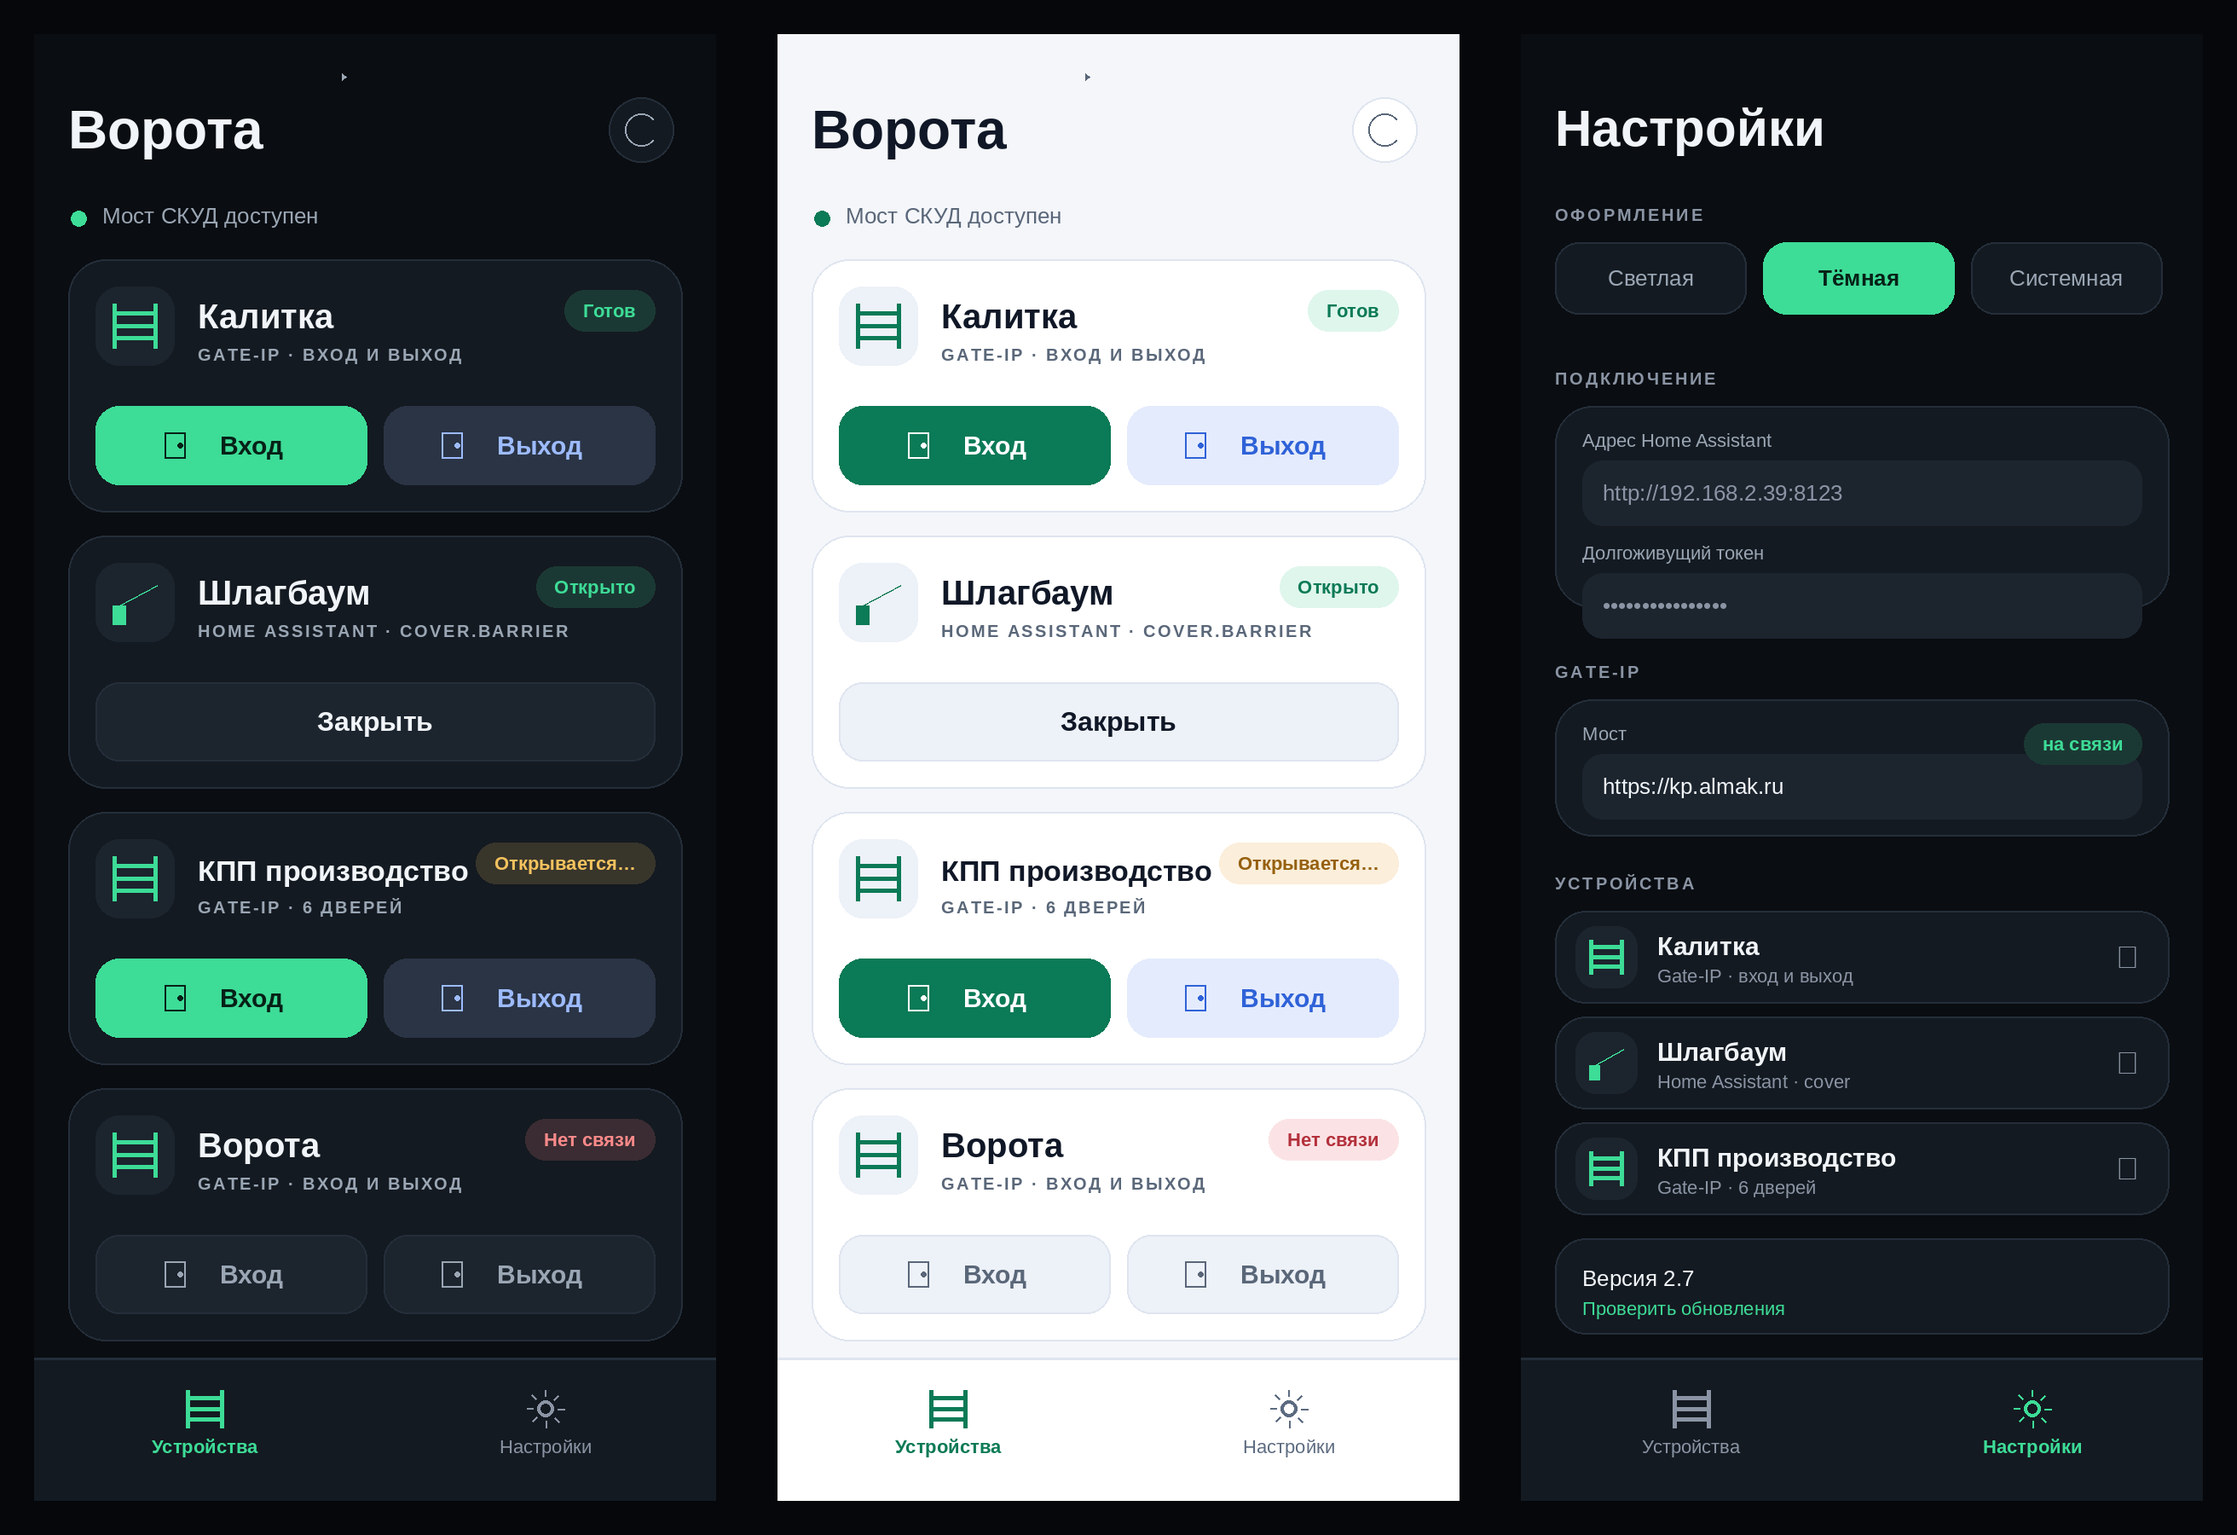
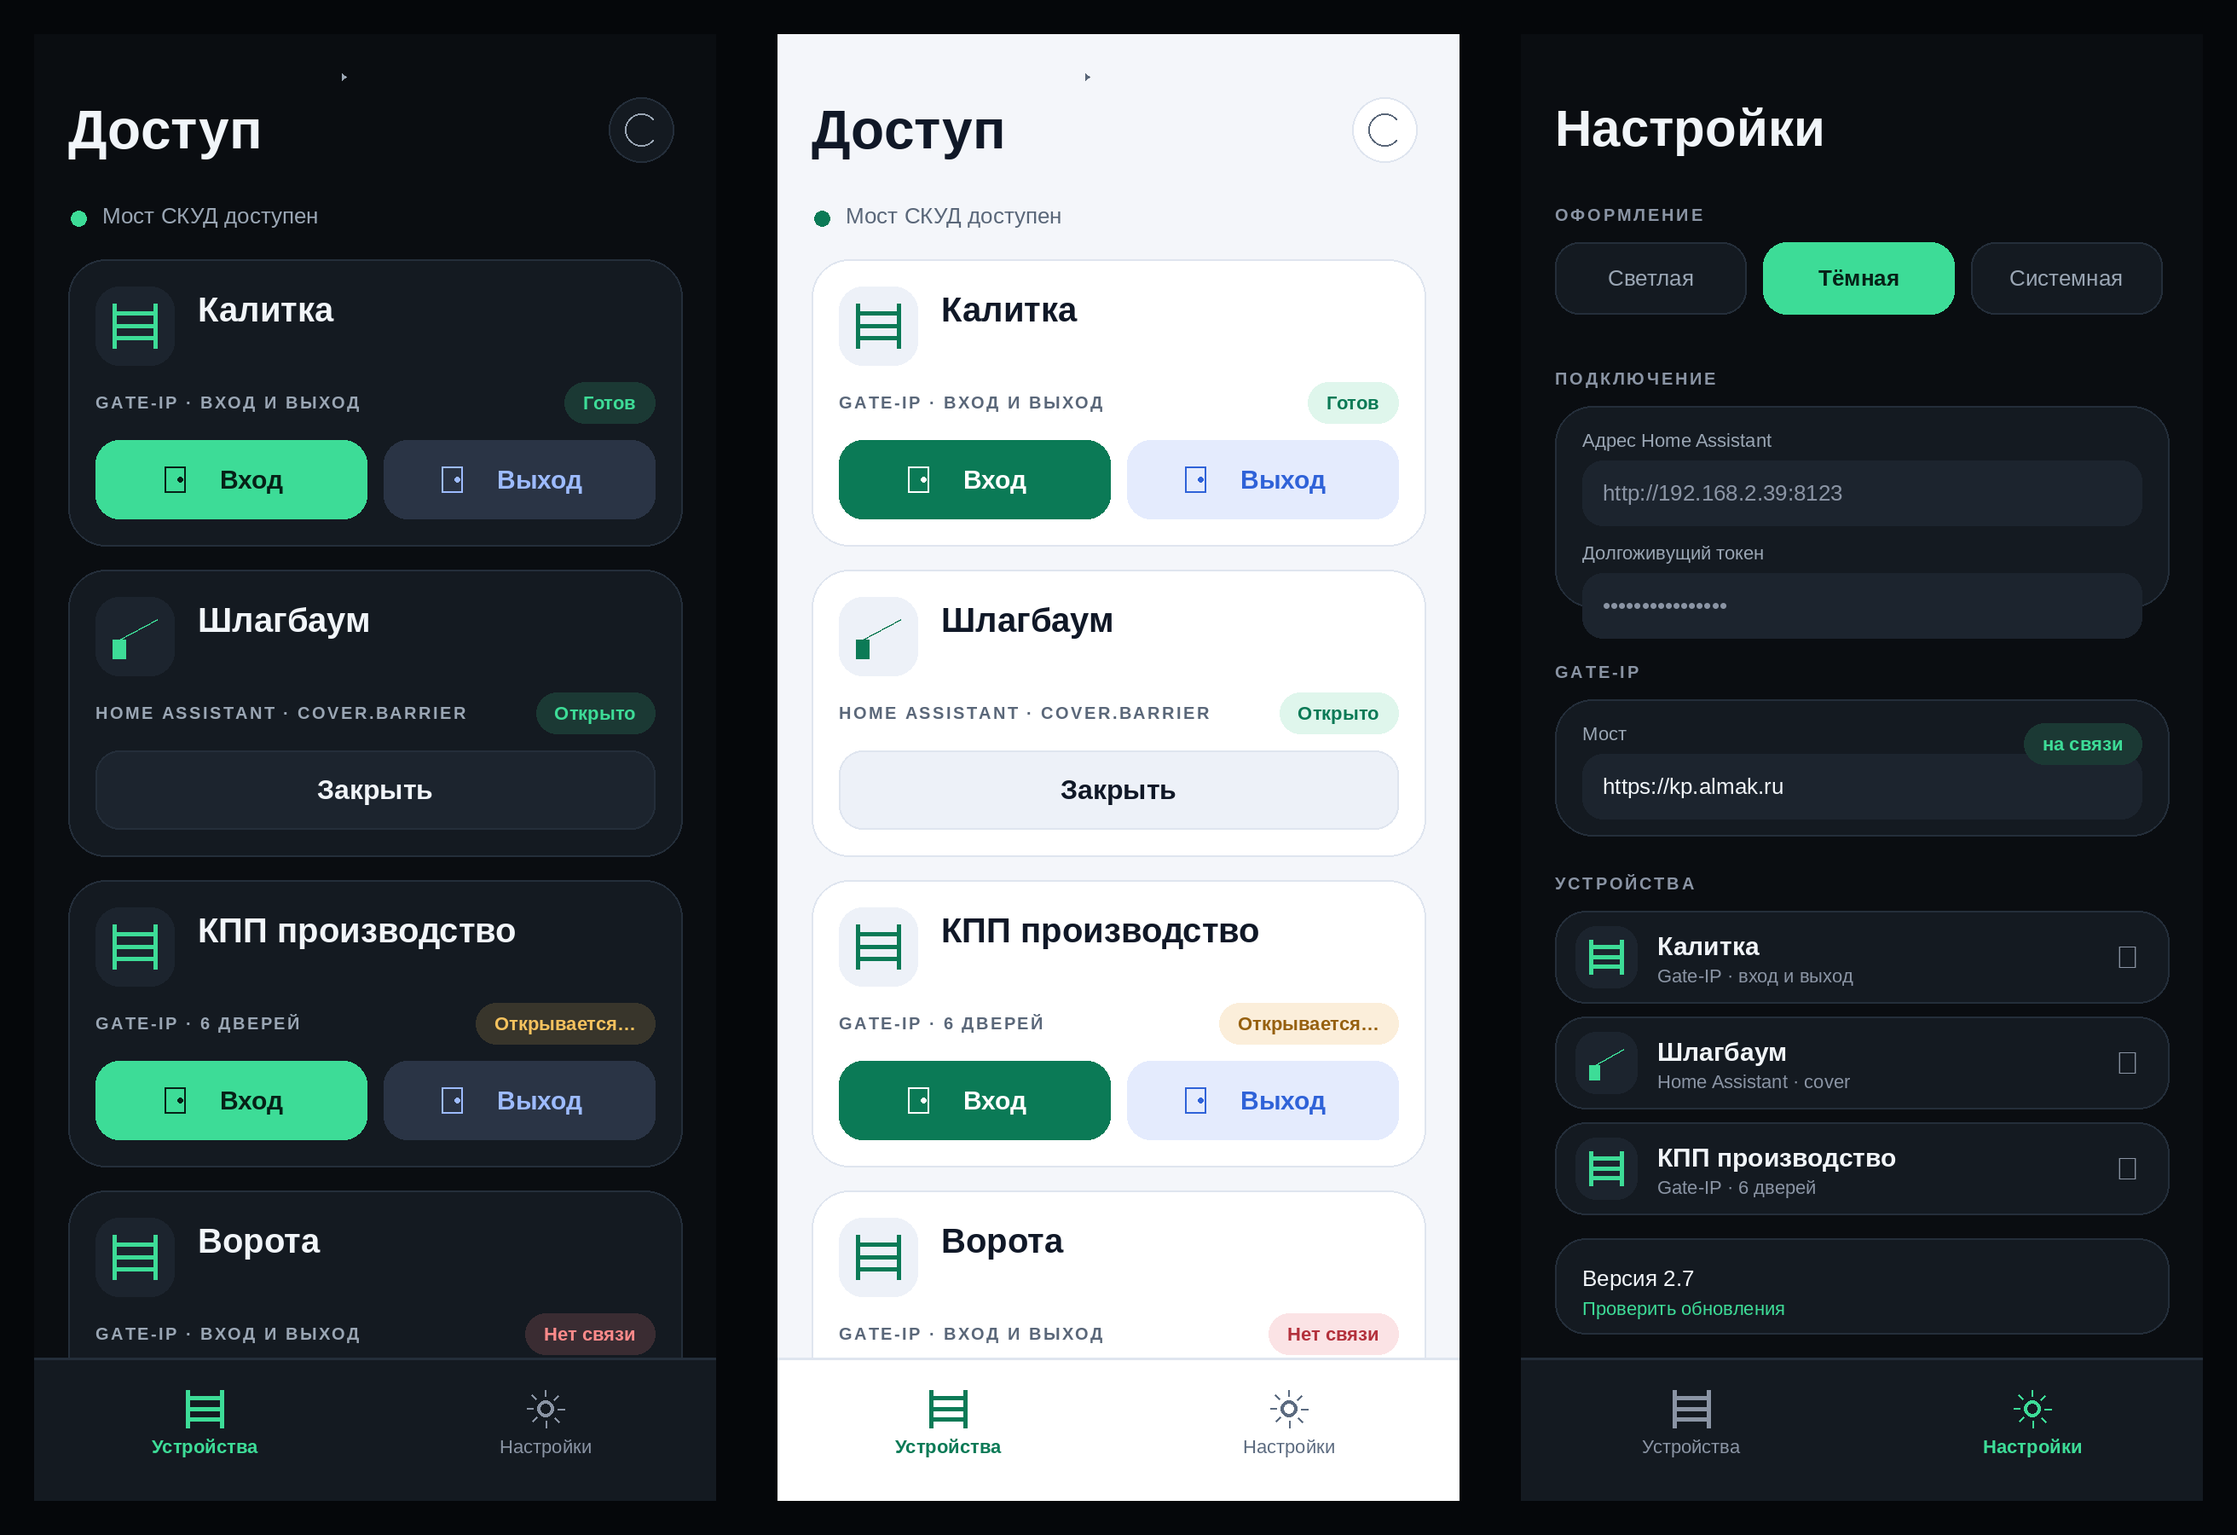
2.9: название «Доступ», новая иконка, имя на всю ширину плитки

diff --git a/design/mockup.py b/design/mockup.py
@@ -130,17 +130,60 @@ def button(d, box, label, size, fg, bg, outline=None, glyph=None, glyph_color=No
         icon(d, cx - tw / 2 - 14, cy, 15, glyph, glyph_color or fg)
 
 
+def wrap(d, s, size, max_w, bold=True, max_lines=2):
+    """Разбивает строку по словам на несколько строк, последнюю обрезает многоточием."""
+    f = font(size, bold)
+    words = s.split()
+    lines = []
+    current = ""
+    for word in words:
+        candidate = word if not current else current + " " + word
+        if d.textlength(candidate, font=f) / S <= max_w or not current:
+            current = candidate
+        else:
+            lines.append(current)
+            current = word
+            if len(lines) == max_lines - 1:
+                break
+    if current:
+        lines.append(current)
+    if len(lines) > max_lines:
+        lines = lines[:max_lines]
+    used = " ".join(lines)
+    if used != s:
+        while lines and d.textlength(lines[-1] + "…", font=f) / S > max_w:
+            lines[-1] = lines[-1][:-1]
+        if lines:
+            lines[-1] += "…"
+    return lines
+
+
 def tile(d, P, x, y, w, name, source, status, status_fg, status_bg,
-         kind="gate", buttons=(), h=148):
+         kind="gate", buttons=(), h=168):
     rr(d, (x, y, x + w, y + h), 22, fill=P["surface"], outline=P["stroke"])
     rr(d, (x + 16, y + 16, x + 16 + 46, y + 16 + 46), 14, fill=P["surface_hi"])
     icon(d, x + 39, y + 39, 26, kind, P["mint"])
+
+    # Имя занимает всю ширину до края плитки: статус переехал на строку ниже.
+    name_w = w - 76 - 16
+    name_size = 20
+    for candidate in (20, 19, 18, 17):
+        if len(wrap(d, name, candidate, name_w, True)) == 1:
+            name_size = candidate
+            break
+    else:
+        name_size = 17
+    lines = wrap(d, name, name_size, name_w, True)
+    line_h = name_size + 5
+    for i, line in enumerate(lines):
+        text(d, (x + 76, y + 18 + i * line_h), line, name_size, P["text"], bold=True)
+
+    # Строка источника и статуса идёт ниже иконки, иначе текст заходит под неё.
+    meta_y = y + 72
     pill_w = d.textlength(status, font=font(11, True)) / S + 22
-    name_text, name_size = fit(d, name, 20, w - 76 - pill_w - 16, True)
-    text(d, (x + 76, y + 22 + (20 - name_size)), name_text, name_size, P["text"], bold=True)
-    src_text, src_size = fit(d, source, 10, w - 92, True)
-    text(d, (x + 76, y + 50), src_text, src_size, P["text2"], bold=True, spacing=1.2)
-    pill(d, x + w - 16, y + 18, status, 11, status_fg, status_bg)
+    src_text, src_size = fit(d, source, 10, w - 32 - pill_w - 12, True)
+    text(d, (x + 16, meta_y + 6), src_text, src_size, P["text2"], bold=True, spacing=1.2)
+    pill(d, x + w - 16, meta_y, status, 11, status_fg, status_bg)
     by = y + h - 62
     if len(buttons) == 2:
         bw = (w - 32 - 10) / 2
@@ -166,7 +209,7 @@ def nav(d, P, y, active=0):
 def screen_main(P, variant="dark"):
     img = Image.new("RGB", (W * S, H * S), P["bg"])
     d = ImageDraw.Draw(img)
-    text(d, (20, 38), "Ворота", 32, P["text"], bold=True)
+    text(d, (20, 38), "Доступ", 32, P["text"], bold=True)
     circle(d, 356, 56, 19, fill=P["surface"], outline=P["stroke"])
     icon(d, 356, 56, 19, "refresh", P["text2"])
     circle(d, 26, 108, 4.5, fill=P["mint"])
@@ -183,14 +226,14 @@ def screen_main(P, variant="dark"):
          kind="gate",
          buttons=[("Вход", P["mint_ink"], P["mint"], None, "door", None),
                   ("Выход", P["blue"], blue_soft, None, "door", None)])
-    tile(d, P, 20, 294, 360, "Шлагбаум", "HOME ASSISTANT · COVER.BARRIER", "Открыто", P["mint"], mint_soft,
+    tile(d, P, 20, 314, 360, "Шлагбаум", "HOME ASSISTANT · COVER.BARRIER", "Открыто", P["mint"], mint_soft,
          kind="barrier",
          buttons=[("Закрыть", P["text"], P["surface_hi"], P["stroke"], None, None)])
-    tile(d, P, 20, 456, 360, "КПП производство", "GATE-IP · 6 ДВЕРЕЙ", "Открывается…", P["amber"], amber_soft,
+    tile(d, P, 20, 496, 360, "КПП производство", "GATE-IP · 6 ДВЕРЕЙ", "Открывается…", P["amber"], amber_soft,
          kind="gate",
          buttons=[("Вход", P["mint_ink"], P["mint"], None, "door", None),
                   ("Выход", P["blue"], blue_soft, None, "door", None)])
-    tile(d, P, 20, 618, 360, "Ворота", "GATE-IP · ВХОД И ВЫХОД", "Нет связи", P["red"], red_soft,
+    tile(d, P, 20, 678, 360, "Ворота", "GATE-IP · ВХОД И ВЫХОД", "Нет связи", P["red"], red_soft,
          kind="gate",
          buttons=[("Вход", P["text2"], P["surface_hi"], P["stroke"], "door", None),
                   ("Выход", P["text2"], P["surface_hi"], P["stroke"], "door", None)])

diff --git a/app/src/main/java/ru/smartsystem39/gates/MainActivity.java b/app/src/main/java/ru/smartsystem39/gates/MainActivity.java
@@ -413,12 +413,24 @@ public class MainActivity extends Activity {
         name.setText(d.name.isEmpty() ? Device.typeLabel(d.type) : d.name);
         name.setTextColor(getColor(R.color.text_primary));
         name.setTypeface(Typeface.create("sans-serif-medium", Typeface.NORMAL));
-        name.setSingleLine(true);
+        name.setSingleLine(false);
+        name.setMaxLines(2);
         name.setEllipsize(TextUtils.TruncateAt.END);
-        // Длинные названия уменьшаются сами, а не наезжают на статус.
-        name.setAutoSizeTextTypeUniformWithConfiguration(17, 20, 1, TypedValue.COMPLEX_UNIT_SP);
+        // Имя занимает всю ширину плитки; длинное переносится на вторую строку и
+        // при необходимости уменьшается, а не обрезается на первом слове.
+        name.setAutoSizeTextTypeUniformWithConfiguration(15, 20, 1, TypedValue.COMPLEX_UNIT_SP);
         c.name = name;
         texts.addView(name);
+        top.addView(texts);
+
+        // Источник и статус — отдельная строка: имя получает всю ширину.
+        LinearLayout meta = new LinearLayout(this);
+        meta.setOrientation(LinearLayout.HORIZONTAL);
+        meta.setGravity(Gravity.CENTER_VERTICAL);
+        LinearLayout.LayoutParams mlp = new LinearLayout.LayoutParams(
+                ViewGroup.LayoutParams.MATCH_PARENT, ViewGroup.LayoutParams.WRAP_CONTENT);
+        mlp.topMargin = dp(10);
+        meta.setLayoutParams(mlp);
 
         TextView source = new TextView(this);
         source.setText(sourceLabel(d));
@@ -429,12 +441,9 @@ public class MainActivity extends Activity {
         source.setTypeface(Typeface.DEFAULT, Typeface.BOLD);
         source.setSingleLine(true);
         source.setEllipsize(TextUtils.TruncateAt.END);
-        LinearLayout.LayoutParams slp = new LinearLayout.LayoutParams(
-                ViewGroup.LayoutParams.WRAP_CONTENT, ViewGroup.LayoutParams.WRAP_CONTENT);
-        slp.topMargin = dp(3);
-        source.setLayoutParams(slp);
-        texts.addView(source);
-        top.addView(texts);
+        source.setLayoutParams(new LinearLayout.LayoutParams(0,
+                ViewGroup.LayoutParams.WRAP_CONTENT, 1f));
+        meta.addView(source);
 
         LinearLayout pill = new LinearLayout(this);
         pill.setOrientation(LinearLayout.HORIZONTAL);
@@ -461,7 +470,8 @@ public class MainActivity extends Activity {
         status.setSingleLine(true);
         c.status = status;
         pill.addView(status);
-        top.addView(pill);
+        meta.addView(pill);
+        card.addView(meta);
 
         LinearLayout actions = new LinearLayout(this);
         actions.setOrientation(LinearLayout.HORIZONTAL);

diff --git a/design/make_icons.py b/design/make_icons.py
@@ -1,0 +1,75 @@
+#!/usr/bin/env python3
+"""Иконка приложения «Доступ»: изумрудный квадрат со знаком доступа (ключевина).
+
+Рисует растровые mipmap-файлы и store-icon. Векторная версия для adaptive-icon
+лежит в app/src/main/res/drawable/ic_launcher_foreground.xml и повторяет этот знак.
+
+Запуск: python3 gates/design/make_icons.py
+"""
+from pathlib import Path
+from PIL import Image, ImageDraw
+
+ROOT = Path(__file__).resolve().parents[1]
+RES = ROOT / "app/src/main/res"
+BG = "#0B7A56"          # изумрудный фон
+MARK = "#FFFFFF"        # знак
+SS = 4                  # суперсэмплинг для гладких краёв
+
+SIZES = {"mdpi": 48, "hdpi": 72, "xhdpi": 96, "xxhdpi": 144, "xxxhdpi": 192}
+
+
+def rounded(size, radius_ratio=0.22):
+    img = Image.new("RGBA", (size, size), (0, 0, 0, 0))
+    d = ImageDraw.Draw(img)
+    r = size * radius_ratio
+    d.rounded_rectangle([0, 0, size - 1, size - 1], radius=r, fill=BG)
+    return img
+
+
+def round_icon(size):
+    img = Image.new("RGBA", (size, size), (0, 0, 0, 0))
+    d = ImageDraw.Draw(img)
+    d.ellipse([0, 0, size - 1, size - 1], fill=BG)
+    return img
+
+
+def draw_mark(img, size):
+    """Ключевина: круг сверху и расширяющийся книзу стержень."""
+    d = ImageDraw.Draw(img)
+    cx = size / 2.0
+    circle_r = size * 0.165
+    circle_cy = size * 0.375
+    d.ellipse([cx - circle_r, circle_cy - circle_r, cx + circle_r, circle_cy + circle_r], fill=MARK)
+
+    top = circle_cy + circle_r * 0.35
+    bottom = size * 0.735
+    half_top = size * 0.072
+    half_bottom = size * 0.118
+    d.polygon([(cx - half_top, top), (cx + half_top, top),
+               (cx + half_bottom, bottom), (cx - half_bottom, bottom)], fill=MARK)
+    return img
+
+
+def make(size, shape):
+    big = size * SS
+    img = rounded(big) if shape == "square" else round_icon(big)
+    draw_mark(img, big)
+    return img.resize((size, size), Image.LANCZOS)
+
+
+def main():
+    written = []
+    for density, size in SIZES.items():
+        folder = RES / f"mipmap-{density}"
+        folder.mkdir(parents=True, exist_ok=True)
+        for name, shape in (("ic_launcher.png", "square"), ("ic_launcher_round.png", "round")):
+            make(size, shape).save(folder / name)
+            written.append(folder / name)
+    store = make(512, "square")
+    store.save(ROOT / "store-icon-512.png")
+    written.append(ROOT / "store-icon-512.png")
+    print(f"готово: {len(written)} файлов, фон {BG}, знак {MARK}")
+
+
+if __name__ == "__main__":
+    main()

diff --git a/design/check_contrast.py b/design/check_contrast.py
@@ -46,14 +46,15 @@ def main():
     for name, palette, variant in (("тёмная", M.DARK, "dark"), ("светлая", M.LIGHT, "light")):
         img = M.screen_main(palette, variant)
         print(f"=== главный экран, {name} тема ===")
-        check(img, (40, 222, 190, 262), "кнопка «Вход»")
-        check(img, (209, 222, 360, 262), "кнопка «Выход»")
-        check(img, (40, 384, 360, 424), "кнопка «Закрыть»")
-        check(img, (300, 152, 358, 174), "статус «Готов»")
-        check(img, (288, 314, 358, 336), "статус «Открыто»")
-        check(img, (258, 476, 358, 498), "статус «Открывается…»")
-        check(img, (300, 638, 358, 660), "статус «Нет связи»")
-        check(img, (76, 46, 290, 62), "подпись источника")
+        # Плитки стоят на y = 132, 314, 496, 678 при высоте 168.
+        check(img, (40, 242, 190, 280), "кнопка «Вход»")
+        check(img, (209, 242, 360, 280), "кнопка «Выход»")
+        check(img, (40, 424, 360, 462), "кнопка «Закрыть»")
+        check(img, (312, 206, 362, 226), "статус «Готов»")
+        check(img, (295, 388, 362, 408), "статус «Открыто»")
+        check(img, (260, 570, 362, 590), "статус «Открывается…»")
+        check(img, (290, 752, 362, 772), "статус «Нет связи»")
+        check(img, (36, 208, 290, 222), "подпись источника")
         check(img, (40, 96, 240, 118), "строка связи")
 
     img = M.screen_settings(M.DARK)
